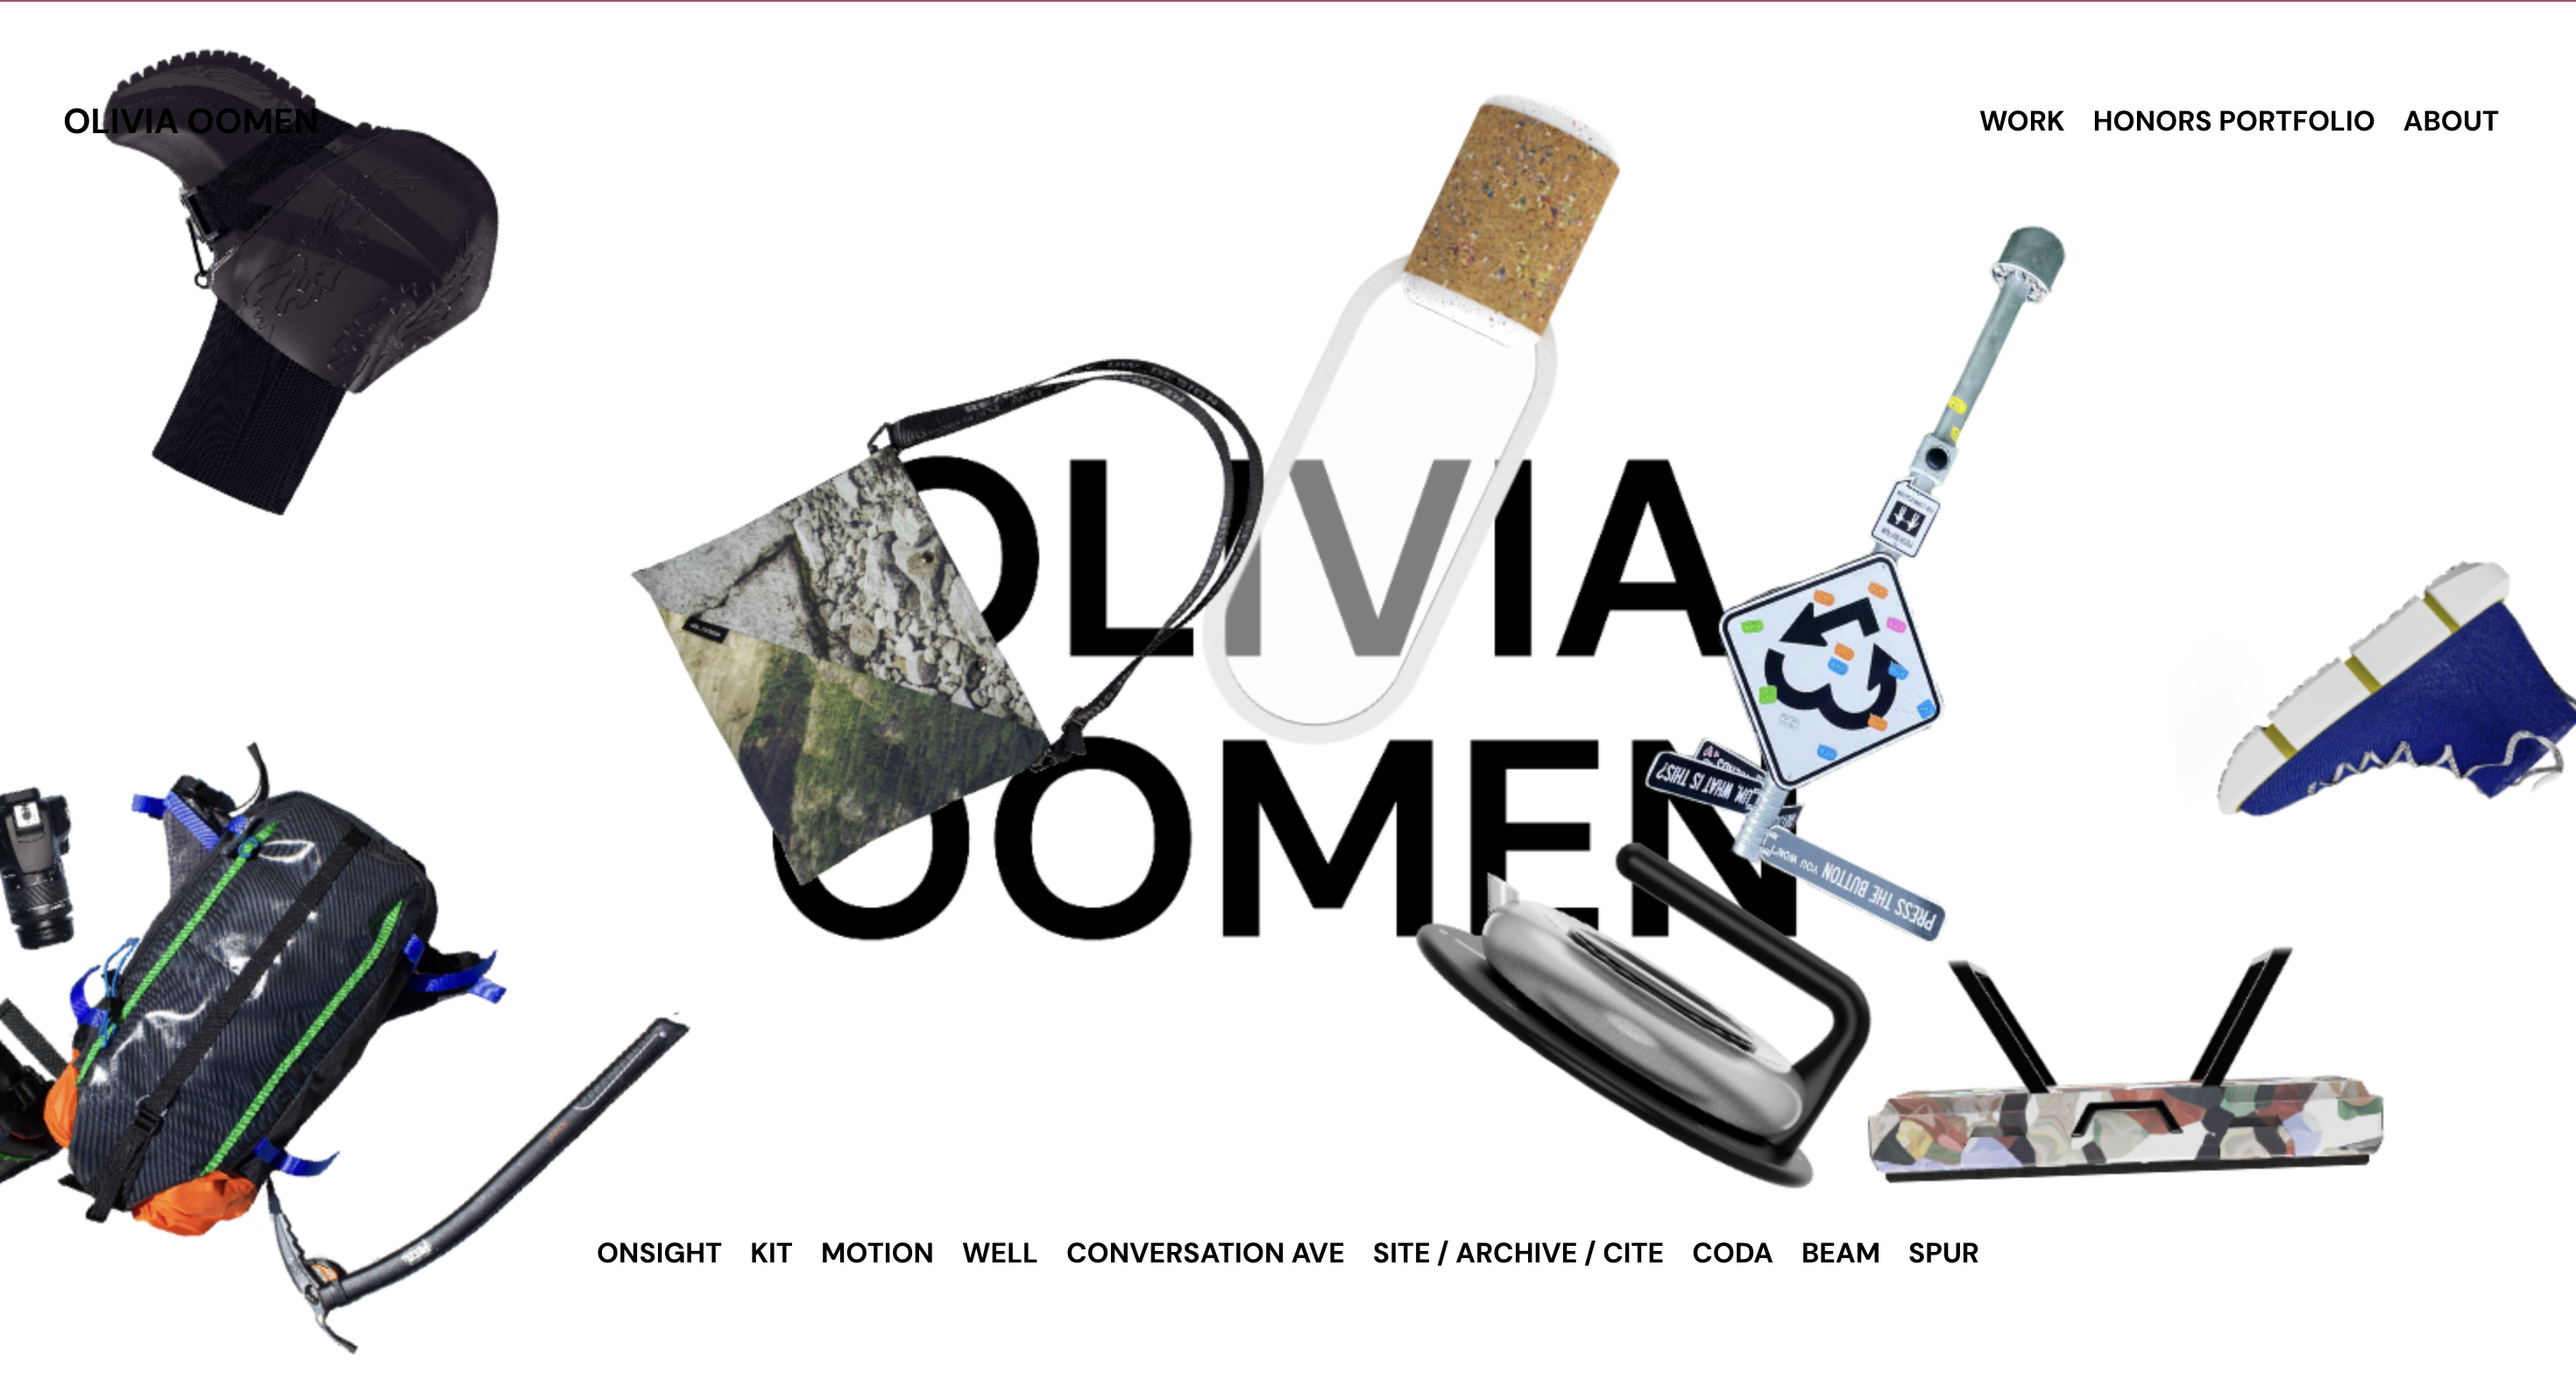
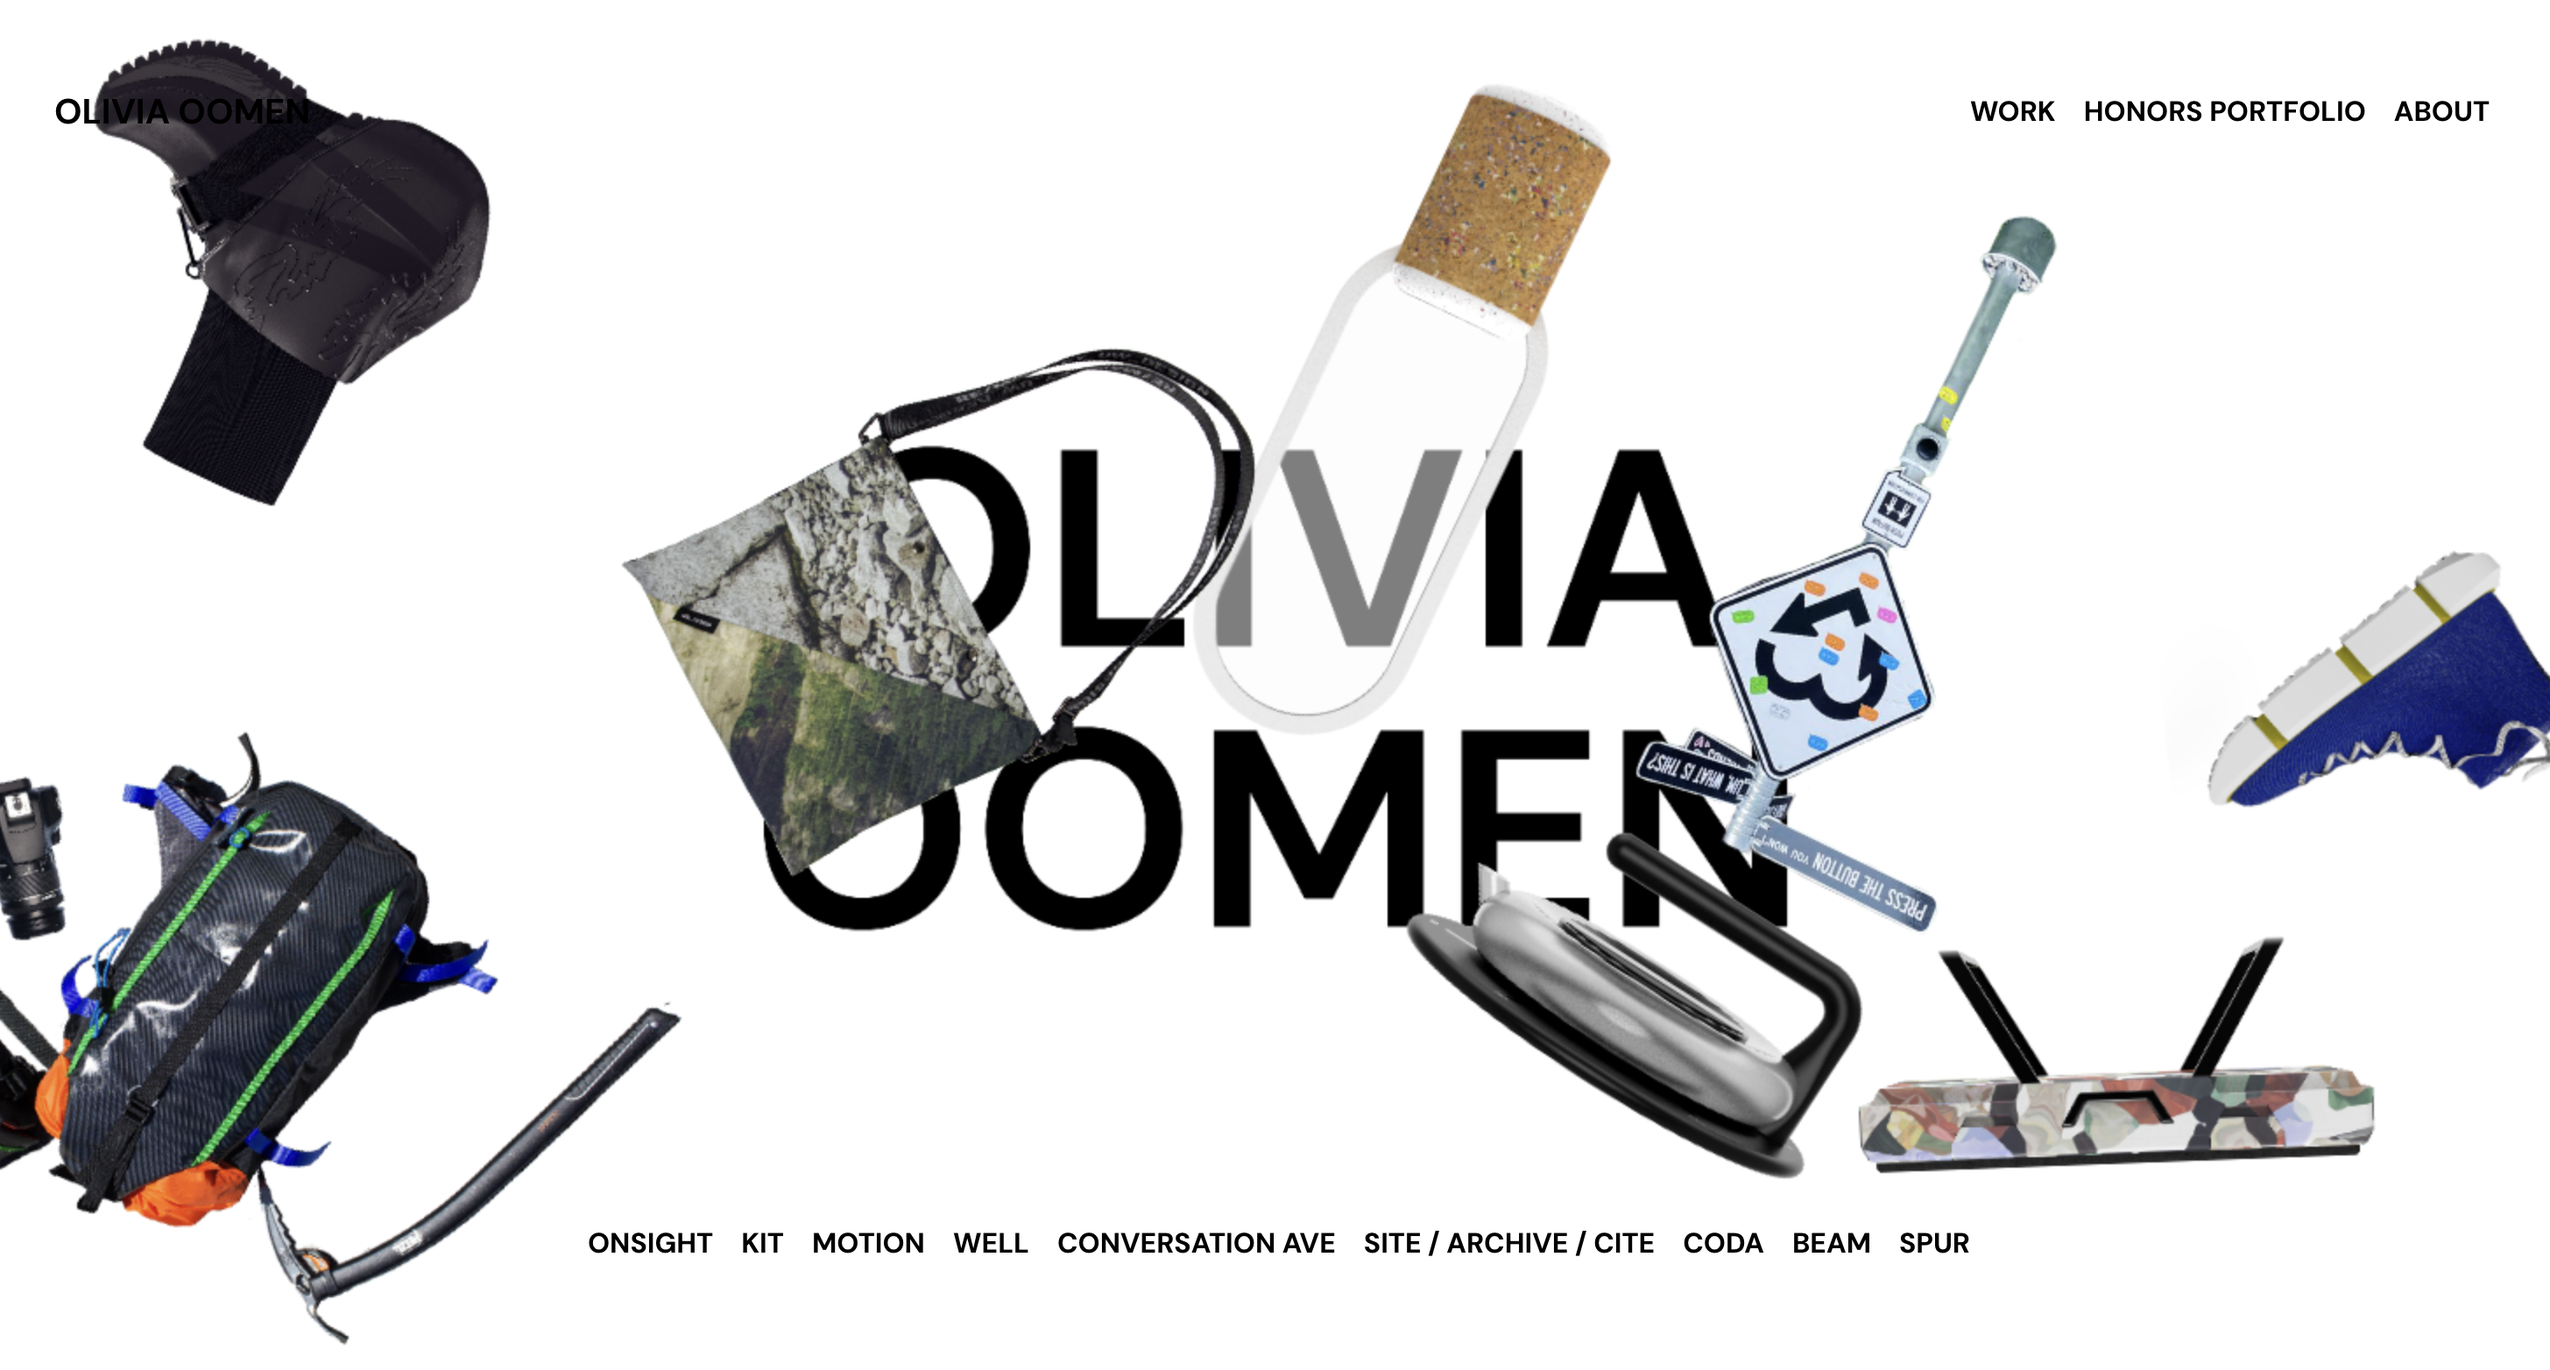
add some text to Liv's page

diff --git a/src/creations/2024/05-24-olivia-oomen-portfolio.md b/src/creations/2024/05-24-olivia-oomen-portfolio.md
@@ -1,5 +1,23 @@
 # Industrial Design Portfolio
 
-![playful homepage with brightly colored items overlapping text reading Olivia Oomen](img/creations/olivia-oomen-wesbite/homepage.png)
+![playful homepage with brightly colored items overlapping text reading Olivia Oomen](img/creations/olivia-oomen-website/homepage.png)
 
-![frame of birds](img/creations/09-24-wired-collage/start-collage.png)
+Technolgoies: React, MatterJS 
+
+## Features:
+- Interactive homepage featuring "draggable" and "throwable" images of Olivia's projects to get people engaging with Olivia's work in a playful way.
+- Streamlined design to keep the focus on the excitement of the projects.
+- An interactive 3D "toy figure" of Liv on the about page.
+- Mobile responsive.
+
+## Process:
+
+I had been helping out Olivia with her squarespace portfolio. We had reached the boundary of customization possible so needed to turn to a fully custom solution.
+
+> Objective: Create a cool, interactive homepage. That introduces people to Olivia's projects in a 
+
+Allowed the skies to open and creativity to go loose.
+
+Started with a 3D-based homepage using ___ and ____. Inspired by Oliver LaRose's tutorial.
+
+Streamlined to something that could load faster and was closer to Olivia's original vision
